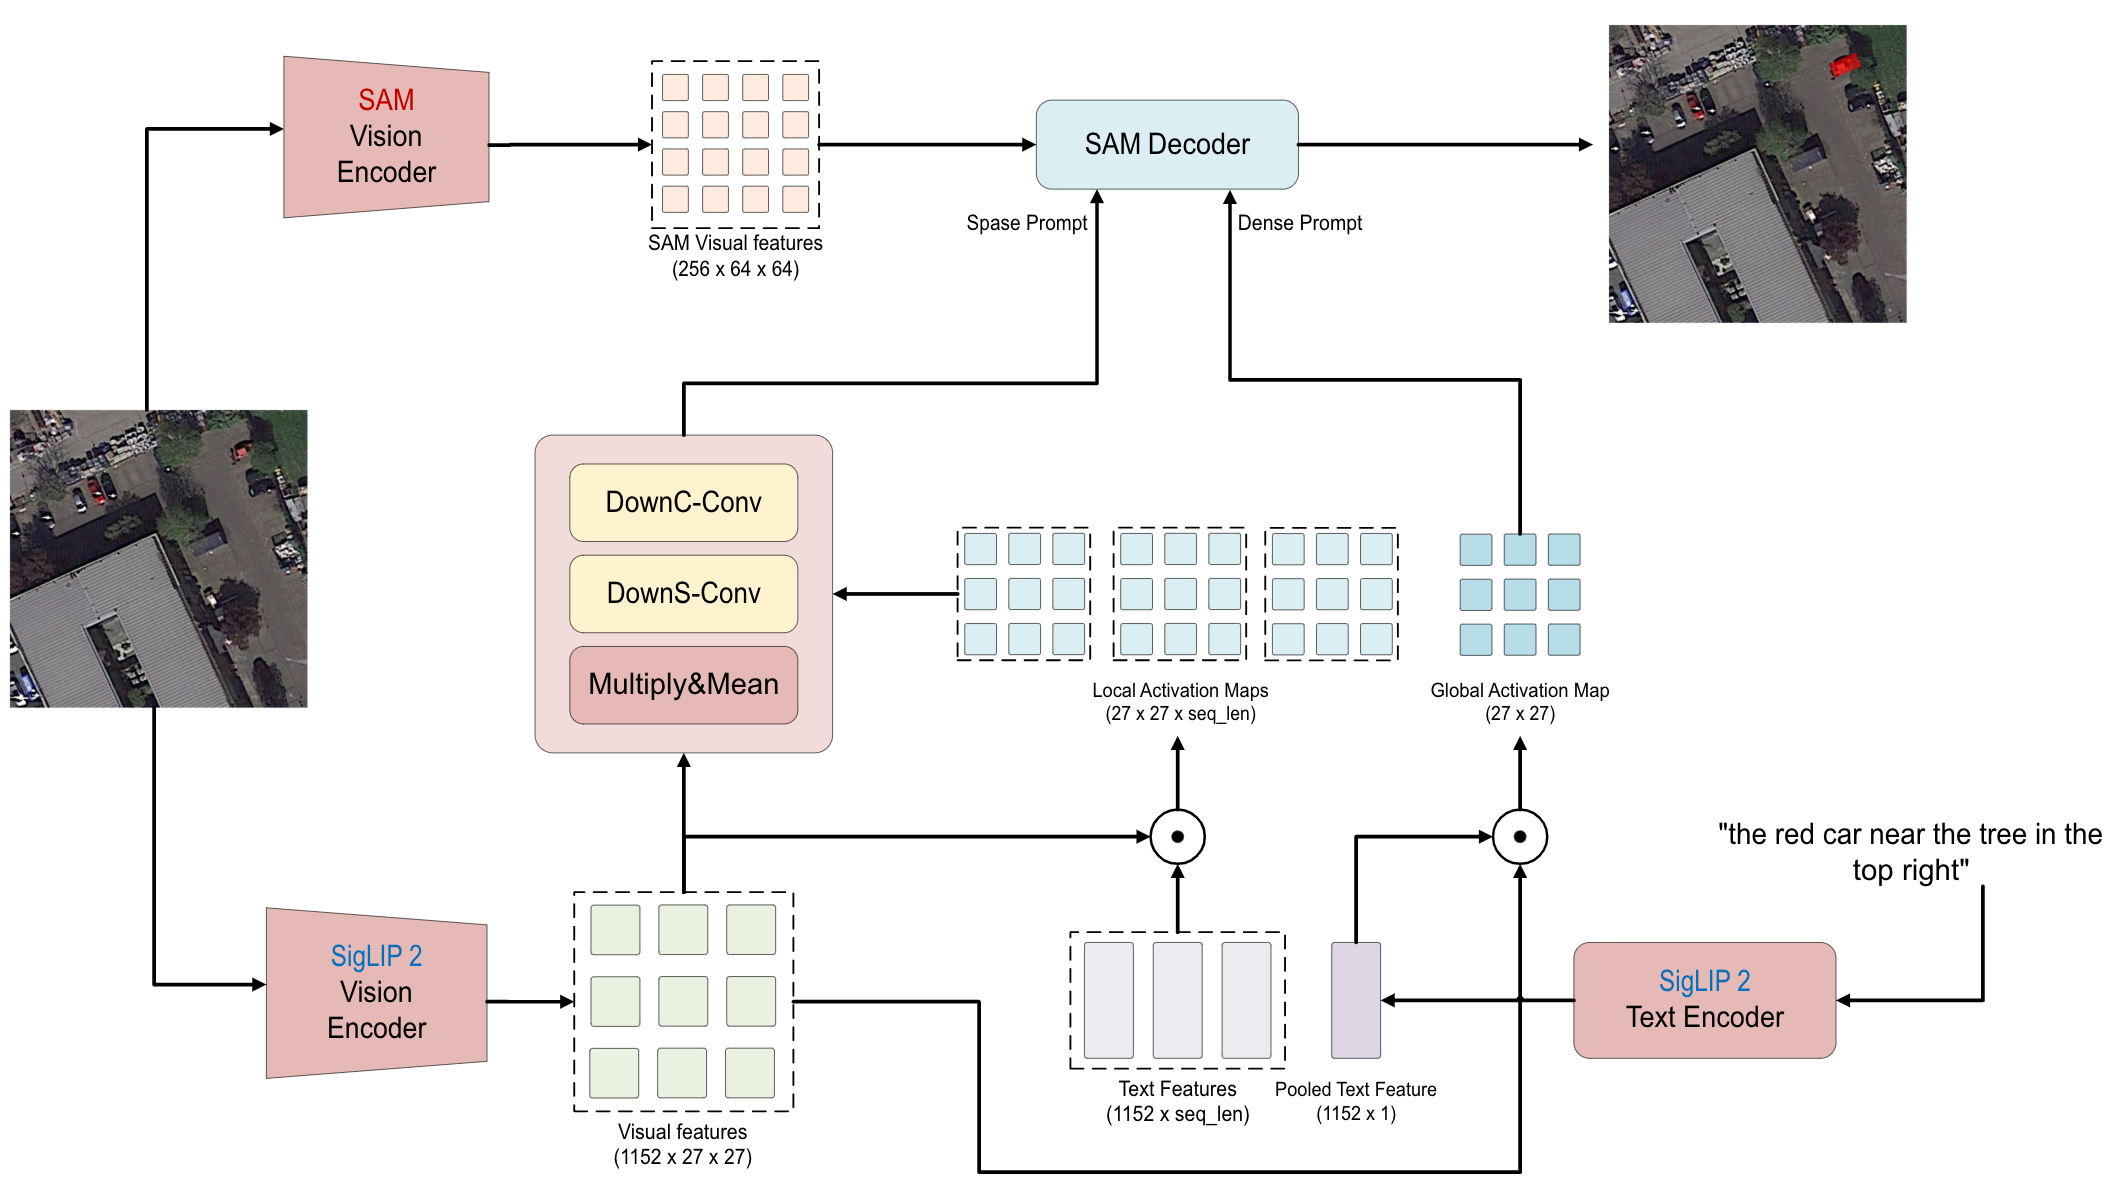
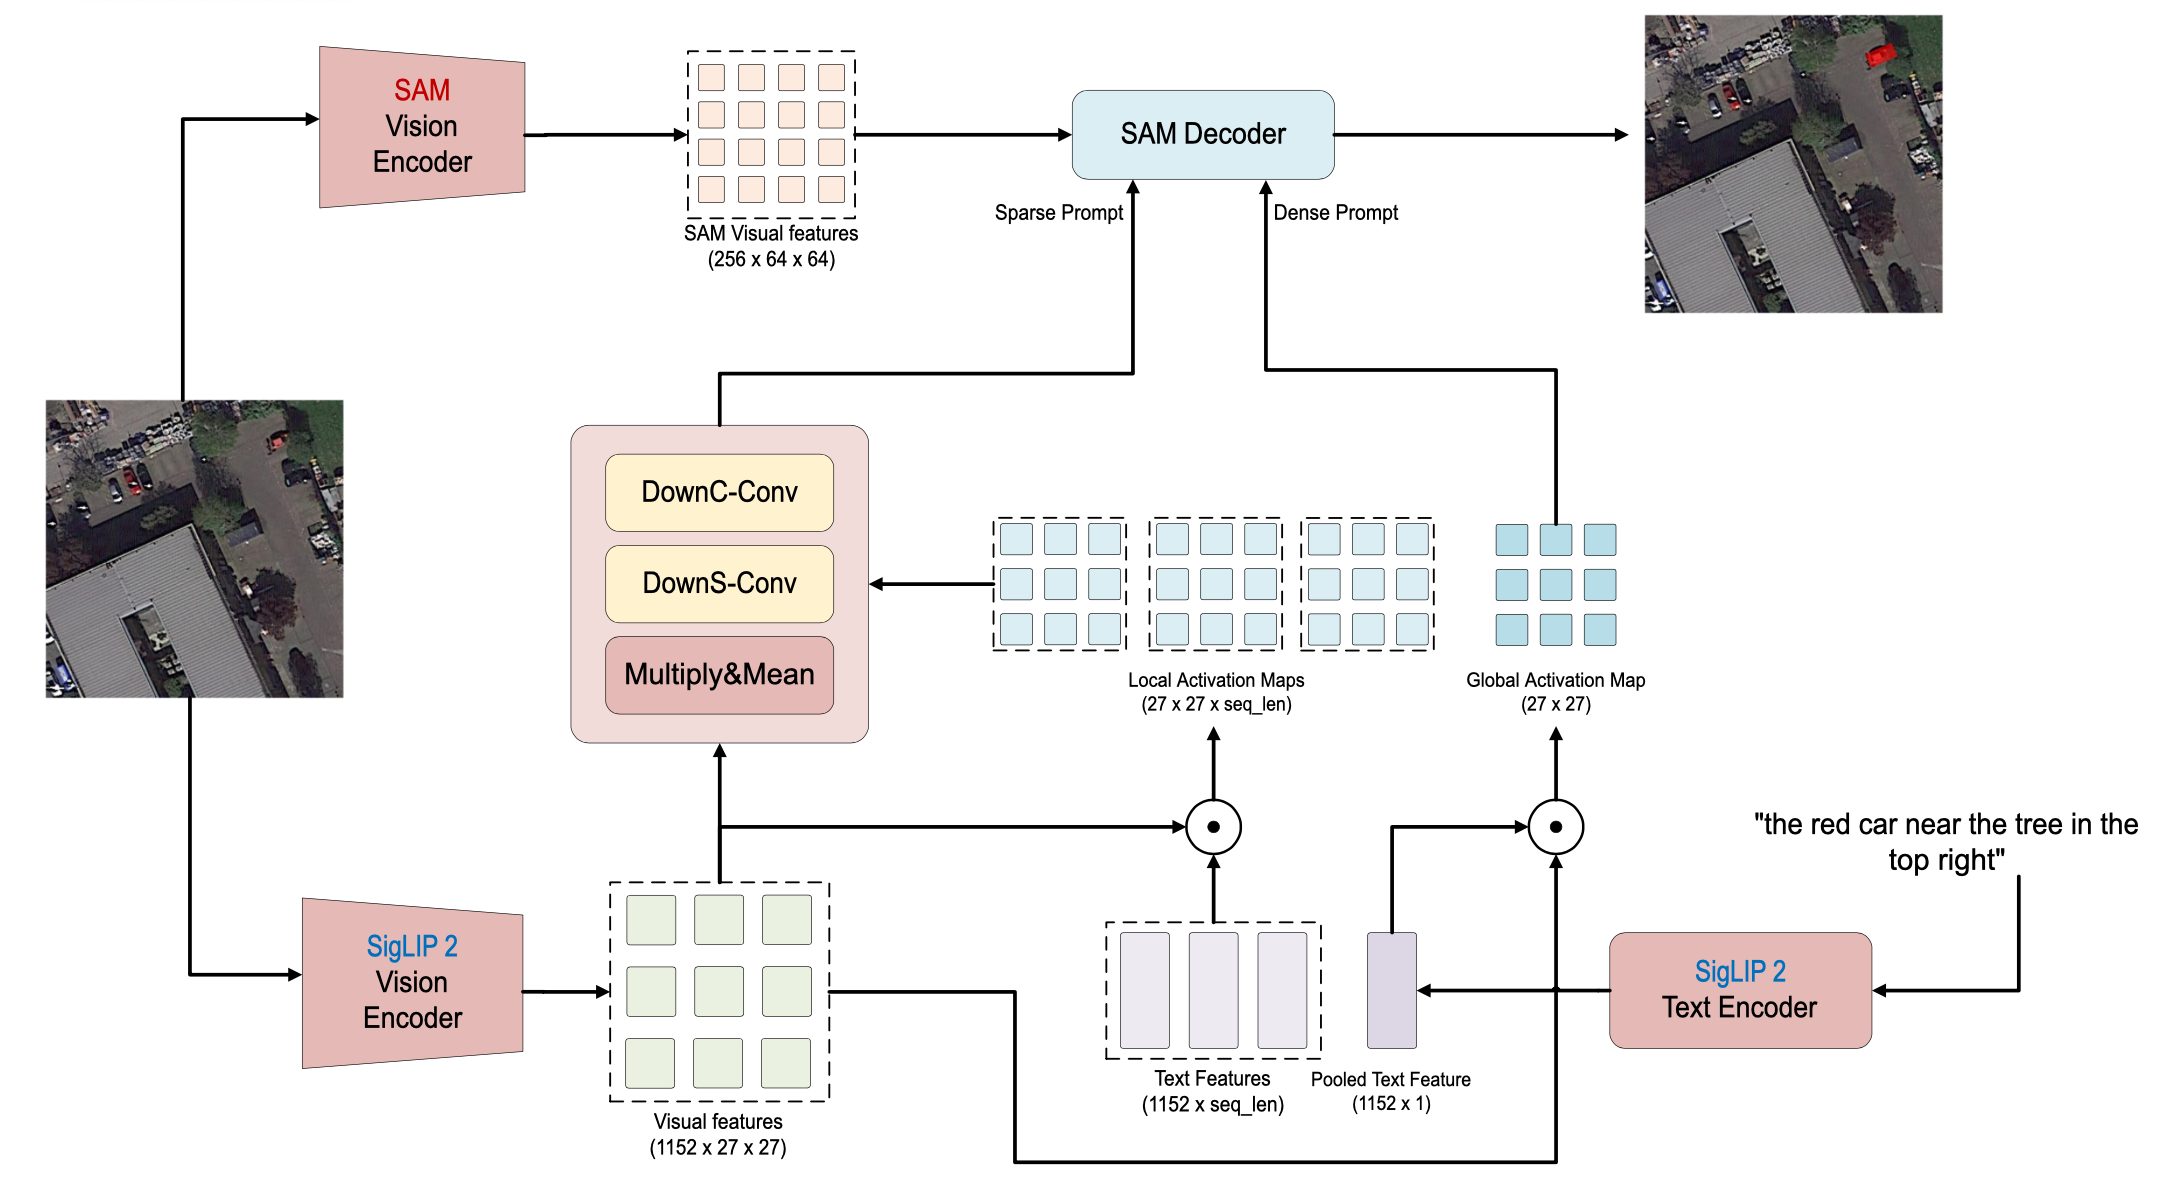
added review items and fixed rsrefseg graphic

Changed region(s): [[0.0, 0.0, 0.9348, 0.9867], [0.8102, 0.6783, 0.9972, 0.74]]

diff --git a/tex/article/ARTICLE_REVIEW_TODO.md b/tex/article/ARTICLE_REVIEW_TODO.md
@@ -1,0 +1,96 @@
+# Article Review TODO
+
+Collected issues from the thorough article review. Excludes template-compliance items and general “clarity checks” per request.
+
+## High-Priority Content/Results
+
+### Critical Numerical Inconsistencies
+- [ ] **Expression count mismatch**: Abstract states "1,522,523 referring expressions" but Table 2 (tab:llm_enhancement_stats) shows "Total: 1,523K". Verify which is correct (1,523K rounded = 1,523,000 ≠ 1,522,523).
+- [ ] **Sample count arithmetic error**: Section 5.3, Table 5 lists individual splits as 371K + 364K + 382K = 1,117K, but "Combined All" row shows 1,118K samples. Fix math or explain the extra 1K.
+- [ ] **Target count terminology confusion**: Section 3.2 says "approximately 300,000 captured targets" but Section 3.5 says "259,709 annotated targets". Clarify that 300K is pre-filtering and 259,709 is post-uniqueness-filtering.
+- [ ] **Class count verification**: Abstract claims "21 distinct classes" but iSAID has 15 categories and LoveDA has 7 classes (15 + 7 = 22, not 21). Verify if there's overlap or if one class was excluded.
+
+### Model Architecture Clarity
+- [ ] **LoRA rank confusion**: Section 5.1 says RSRefSeg-b uses "r=16" and RSRefSeg-l uses "r=32"; Section 5.2 says combined model uses "r=32"; Section 5.3 says ablation uses RSRefSeg-b with "r=16". Clarify which model (b vs l) is used for which experiments, as Section 5.2 mentions both but defaults to RSRefSeg-l.
+- [ ] **SigLIP vs SigLIP2 terminology**: Section 2.2 mentions "CLIP or SigLIP" for RSRefSeg, but Section 5.1/5.2 use "SigLIP2" explicitly. Standardize to SigLIP2 throughout, including in Related Work when discussing RSRefSeg.
+- [ ] **RSRefSeg-b recipe omission**: Table 4 reports RSRefSeg-b results, but Section 5.2 describes only the RSRefSeg-l training configuration. Add the lighter model's training details (backbone size, LoRA ranks, learning rate, etc.) for reproducibility.
+
+### Tables and Results
+- [ ] Aerial-D variants table: fix "All Targets" metrics (Table `tab:aeriald_variants`) — they currently duplicate the "Instance Targets" values; "All" should aggregate instance + semantic and differ.
+- [ ] **RefSegRS performance gap**: Table 4 shows RMSIN gets 59.96% mIoU but RSRefSeg-l only gets 44.52%. Acknowledge this gap in text and explain why (e.g., RMSIN was trained only on RefSegRS, while yours is multi-dataset).
+- [ ] Historic filters wording: resolve contradiction between "on-the-fly during training" (Section 3.4) and "during data preparation we apply filters to 20% of images" (Section 5.2). Choose one accurate description and use consistently. Also clarify that each image gets ONE randomly chosen filter, not all three.
+
+### Dataset and Citation Issues
+- [ ] Dataset name consistency: standardize to a single form (e.g., "Aerial-D") throughout; avoid mixed forms like "AERIAL-D" in the dataset comparison table and "Aerial\mbox{-}D" in Conclusion.
+- [ ] **LLM split naming**: Table 3 labels the third split "LLM Visual Details" while Sections 3.3/5.3 and Table 5 refer to "LLM Visual Variations". Pick one name and use it consistently in both prose and tables.
+- [ ] NWPU-Refer citation/year: key `yang2024large` has year 2025 in the BibTeX/bbl. Ensure the text consistently refers to the correct year or update the key.
+- [ ] **Dataset count phrasing**: Introduction says "four additional datasets" (beyond Aerial-D) while Conclusion says "five datasets" (total). While technically consistent, consider stating "five datasets (Aerial-D plus four public benchmarks)" in one place for clarity.
+
+## Language/Style Consistency
+- [ ] Choose US or UK English and standardize globally. Examples to normalize:
+  - analysing → analyzing; artefacts → artifacts; colour → color; stabilises → stabilizes; honour → honor; behaviour → behavior; grayscale vs grey-scale.
+- [ ] Unify the hyphenation of the dataset name (e.g., always "Aerial-D"). If using a non-breaking hyphen (`Aerial\mbox{-}D`), apply it consistently everywhere (currently inconsistent in Conclusion).
+- [ ] **Land-cover hyphenation**: Mixed usage of "land-cover" (Section 3.1, 3.5, Abstract) vs "land cover" (Introduction). Standardize on one form throughout (recommend "land-cover" as compound adjective).
+- [ ] **Number formatting consistency**: Uses both comma-separated (1,522,523) and K notation (1,523K) throughout. While acceptable, consider being more consistent within individual sections.
+- [ ] **Validation split naming**: Section 5.2 uses '405K-expression "combined-all" split' with quotes, Section 5.3 uses "combined-all validation split" without quotes. Minor formatting inconsistency.
+
+## Figures, Tables, Cross-References
+
+### Table Formatting and Accuracy
+- [ ] Cost table footnote placement: confirm `\caption{...\protect\footnotemark}` + `\footnotetext{...}` renders correctly and at the intended location (Table `tab:cost_comparison`).
+- [ ] **Cost calculation verification**: Section 5.4 footnote has very detailed token counts. Verify these numbers are accurate based on actual API usage logs.
+- [ ] Boldface in result tables: verify that bolded entries actually correspond to best-in-column and that metric definitions (mIoU, oIoU) are consistent across tables.
+- [ ] **Table sizing**: Several tables use `\resizebox{\textwidth}{!}{...}` to fit. Verify all tables render properly and text remains legible at reduced size.
+- [ ] **Blue color accessibility**: Historic scores shown in blue via `\textcolor{blue}{...}`. Ensure this is accessible; consider also using different formatting like italics for print versions.
+
+### Figure Verification
+- [ ] Category distribution figures: validate that the distributions in `group_category_distribution.png` and `instance_category_distribution.png` reflect the reported counts/splits in text and tables.
+- [ ] **Figure existence and quality check**: Verify all referenced figures exist and are high quality:
+  - 6samples.png
+  - rule_based_generation.png
+  - example_group.png
+  - filters.png
+  - rsrefseg.png
+  - expression_wordcloud.png
+  - distillation.png
+  - 3llm.png
+  - group_category_distribution.png
+  - instance_category_distribution.png
+
+## Technical/LaTeX Preamble Notes
+- [ ] Replace deprecated `subfigure` package with `subcaption` (or remove `subfigure` if not used) to avoid legacy behavior.
+- [ ] Consider relying on `titlesec` alone and removing `sectsty` to avoid package warnings about redefined commands; check headings remain as intended after changes.
+- [ ] Review underfull hbox/vbox warnings; adjust paragraph breaks or float placements (or minor spacing) where layout visibly suffers.
+- [ ] **Equation formatting**: Verify equations 1-6 for historic filters compile without errors and display properly.
+
+## Numerical/Data Consistency
+- [ ] Confirm the "21 distinct classes" statement (Abstract) with the final category list used in figures/tables.
+- [ ] Verify the preprocessing and model input sizes narrative: source patches (480×480) vs encoder inputs (SigLIP2 384×384, SAM 1024×1024) match the actual training pipeline.
+- [ ] Ensure statements about training on Aerial-D only using "LLM Visual Variations" (combined run) are consistently reflected where training mixes are described.
+- [ ] **Sepia noise mean bias**: Equation \eqref{eq:sepia_noise} adds $\mathcal{U}(0,50)$ noise, which has a positive mean and brightens images. Either shift this to zero-mean noise or explain why the asymmetric noise is intentional.
+
+### Additional Data Verification Needed
+- [ ] **Summary statistics to cross-check**:
+  - Total expressions: 1,522,523 or 1,523K? (verify exact number)
+  - Total targets: 259,709 (verify)
+  - Total patches: 37,288 (verify)
+  - Instance expressions: 1,278,453 (verify: 1,278,453 + 244,070 = 1,522,523 ✓)
+  - Semantic expressions: 244,070 (verify)
+  - Validation expressions: 405K (verify against train 1,118K)
+- [ ] **Directional relationships count**: Section 3.2 says "eight directional relationships: above, below, to the left of, to the right of, and the four diagonal directions" (4 cardinal + 4 diagonal = 8). However, CLAUDE.md guidelines suggest only 4 directions. Verify if diagonals are actually used in the implementation.
+
+## Bibliography/Metadata
+- [ ] Where possible, enrich `@misc` entries with venue information once available; ensure consistent capitalization for titles (e.g., iSAID).
+- [ ] Confirm `\bibliographystyle{abbrv}` aligns with the intended citation style for the submission; otherwise switch styles and recompile.
+- [ ] **Future dates in citations**: Several citations say "Accessed 2025-09-13" which is in the future. Update to actual access dates or current dates.
+
+## Content Completeness and Clarity
+
+### Missing Details or Explanations
+- [ ] **Color threshold edge case**: Section 3.2 says 70% for achromatic, 60% for chromatic. Doesn't explicitly state what happens when neither threshold is met (though it implies color is discarded). Could be clearer.
+- [ ] **iSAID patch extraction detail**: Section 3.1 says "slide a 480×480 window with overlap" but doesn't specify overlap percentage/amount. Consider adding this detail or noting it's intentionally omitted for brevity.
+- [ ] **Urban1960SatSeg supervision clarity**: Section 5.5, Table 6 shows "No Filters + No Urban1960SatSeg" causes major drop. Should clarify earlier in the paper that Urban1960SatSeg is ALWAYS used with inherent historic properties since it's already historic imagery.
+- [ ] **Historic filter application phrasing**: Section 5.2 says "apply filters to 20% of training images in each non-historic dataset" - should explicitly clarify that each selected image gets ONE randomly chosen filter (not all three applied sequentially).
+
+### Abstract and Introduction
+- [ ] **Abstract length check**: The abstract is quite dense and long. Verify it doesn't exceed typical conference/journal limits (usually 150-250 words). Consider if any content can be condensed.
